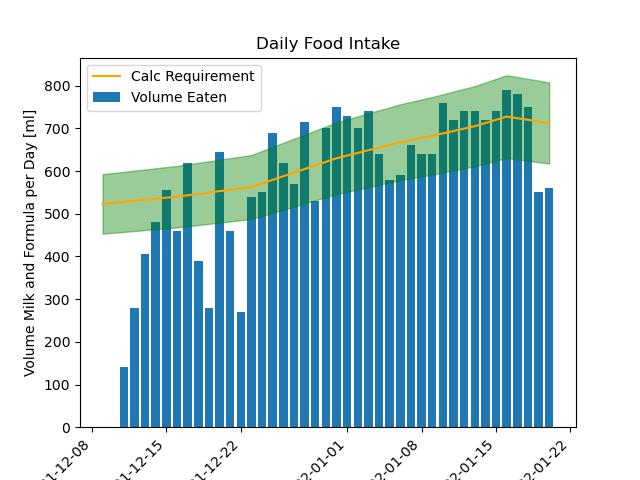
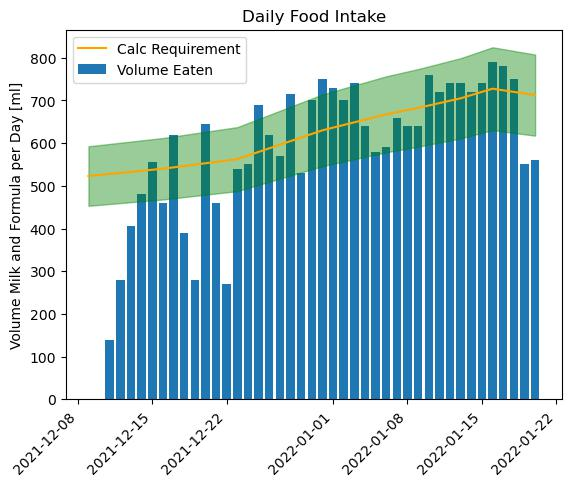
updated graphs in html

diff --git a/templates/dashboard.html b/templates/dashboard.html
@@ -29,22 +29,22 @@
     <h1>Last Update {{ last_update_date }}</h1>
     <div class="row">
         <div class="column">
-            <img src="{{ url_for('static', path= 'feeding.jpg') }}" alt="Feeding graph">
+            <img src="{{ url_for('static', path= 'feeding.jpg') }}" alt="Feeding graph" width='640' height ='480'>
         </div>    
         <div class="column">
-            <img src="{{ url_for('static', path= 'wh.jpg') }}" alt="Weight/Height">
+            <img src="{{ url_for('static', path= 'wh.jpg') }}" alt="Weight/Height" width='640' height ='480'>
         </div>
     </div>
 
     <div class="row1">
         <div class="column">
-            <img src="{{ url_for('static', path= 'weight.jpg') }}" alt="Weight graph">
+            <img src="{{ url_for('static', path= 'weight.jpg') }}" alt="Weight graph" width='640' height ='480'>
         </div>
         <div class="column">
-            <img src="{{ url_for('static', path= 'height.jpg') }}" alt="Height graph">
+            <img src="{{ url_for('static', path= 'height.jpg') }}" alt="Height graph" width='640' height ='480'>
         </div>
         <div class="column">
-            <img src="{{ url_for('static', path= 'head.jpg') }}" alt="Head graph">
+            <img src="{{ url_for('static', path= 'head.jpg') }}" alt="Head graph" width='640' height ='480'>
         </div>
     </div>
 

diff --git a/app/plot_util.py b/app/plot_util.py
@@ -178,7 +178,8 @@ def plot_wh(weight_data, height_data):
 def plot_feeding(feeding_data, weight_data):
     PROJECT_PATH = pathlib.Path(__file__).resolve().parent.parent
     ARTIFACT_PATH = PROJECT_PATH / "static"
-
+    print(ARTIFACT_PATH)
+    
     df = pd.DataFrame(feeding_data)
     df2 = df[["date", "total_vol"]].copy()
     df2["total_vol"] = df2.total_vol.astype(int)
@@ -203,10 +204,10 @@ def plot_feeding(feeding_data, weight_data):
         alpha=0.4,
     )
     plt.xticks(rotation=45, ha="right")
-    plt.ylabel("Volume Milk and Formula per Day [ml]")
+    plt.ylabel("Volume Food per Day [ml]")
     plt.legend()
     plt.title("Daily Food Intake")
-    plt.savefig(ARTIFACT_PATH / "feeding.jpg")
+    plt.savefig(ARTIFACT_PATH / "feeding.jpg", bbox_inches='tight')
 
     return
 
